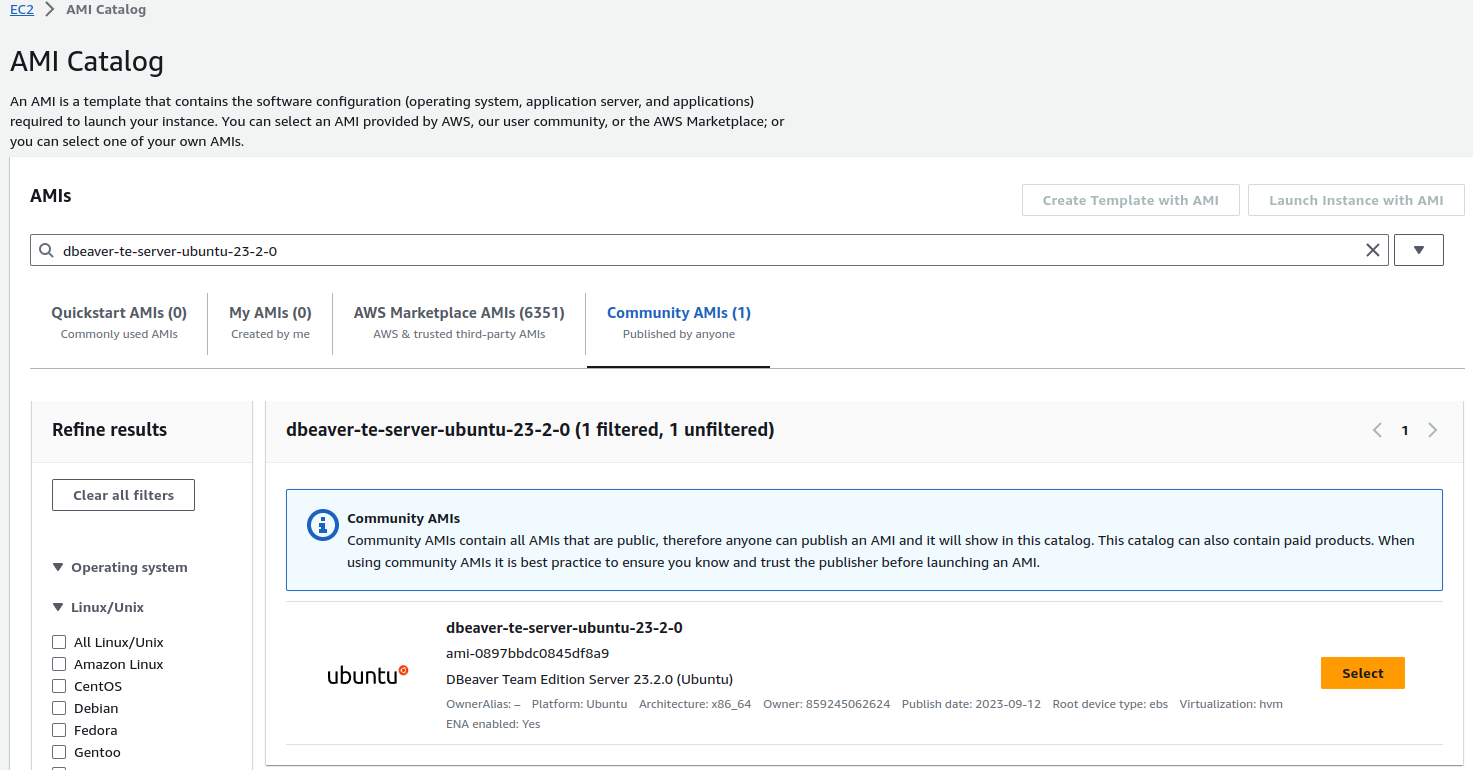
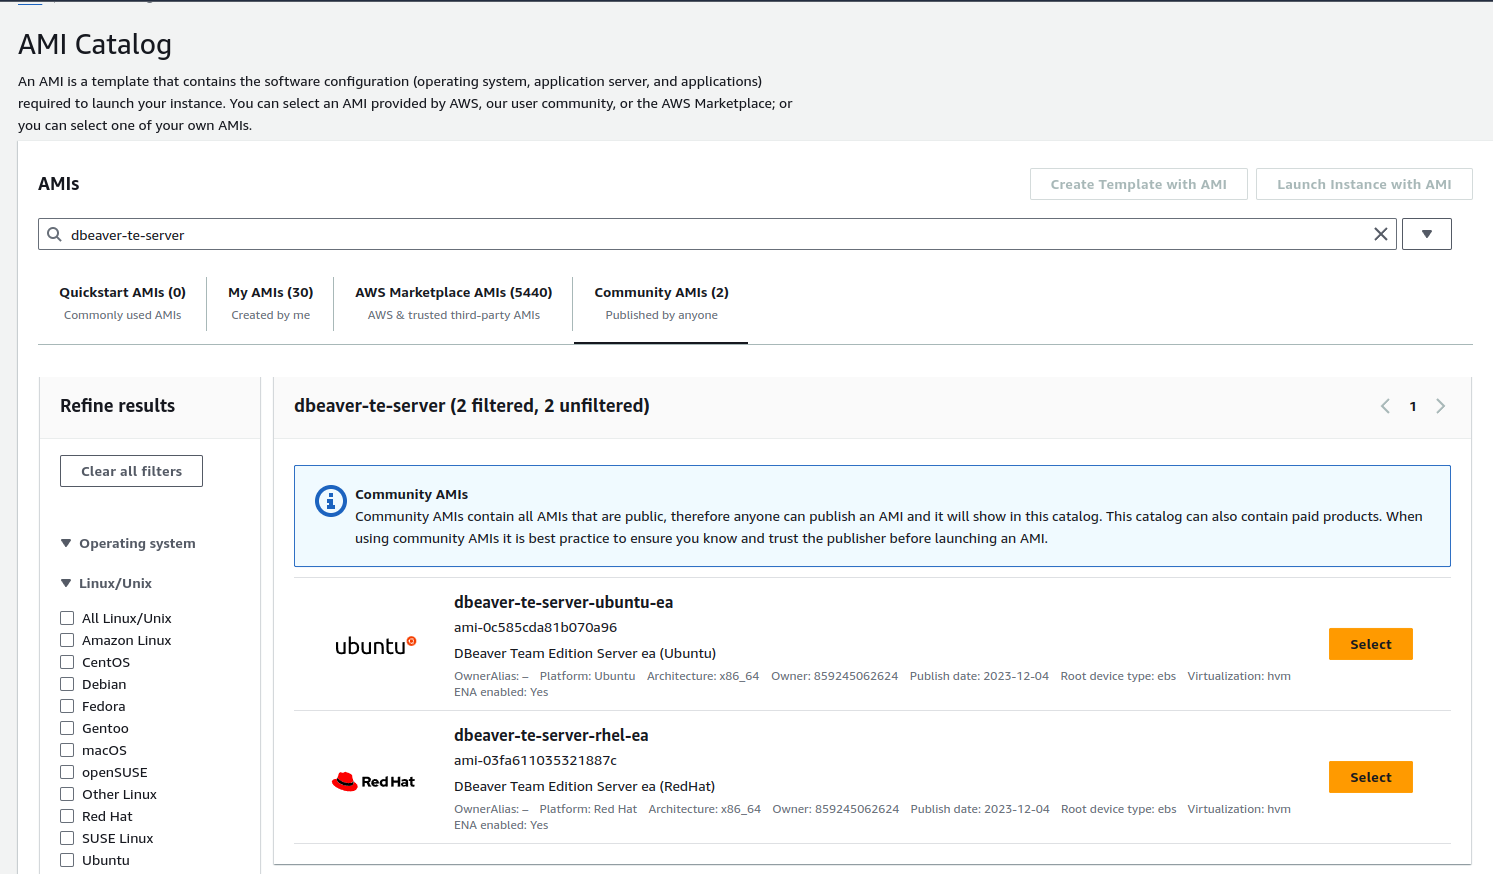
#903 Update ea to 23.3.0 version

diff --git a/GCP/README.md b/GCP/README.md
@@ -80,7 +80,7 @@ gcloud beta compute instances create dbeaver-te-server \
 --zone=us-central1-a \
 --machine-type=e2-standard-4 \
 --tags=http-server,https-server \
---image=https://www.googleapis.com/compute/v1/projects/dbeaver-public/global/images/dbeaver-te-server-ubuntu-23-2-0 \
+--image=https://www.googleapis.com/compute/v1/projects/dbeaver-public/global/images/dbeaver-te-server-ubuntu-23-3-0 \
 --create-disk=auto-delete=yes \
 --boot-disk-size=100GB --boot-disk-device-name=dbeaver-te-server
 ```
@@ -95,8 +95,8 @@ Where:
 - `boot-disk-device-name` - The name the guest operating system will see for the boot disk.
 
 DBeaver Team Edition GCP public image list:
-- `https://www.googleapis.com/compute/v1/projects/dbeaver-public/global/images/dbeaver-te-server-ubuntu-23-2-0`
-- `https://www.googleapis.com/compute/v1/projects/dbeaver-public/global/images/dbeaver-te-server-rhel-23-2-0`
+- `https://www.googleapis.com/compute/v1/projects/dbeaver-public/global/images/dbeaver-te-server-ubuntu-23-3-0`
+- `https://www.googleapis.com/compute/v1/projects/dbeaver-public/global/images/dbeaver-te-server-rhel-23-3-0`
 
 
 You can change the parameters you need for deployment yourself. For detailed information on working with Google Cloud CLI, you can read the [documentation](https://cloud.google.com/sdk/gcloud/reference/beta/compute/instances/create).

diff --git a/AWS/ami/README.md b/AWS/ami/README.md
@@ -10,14 +10,15 @@
 ### How to deploy AMI in AWS
 
 - Go to [AWS EC2](https://us-east-1.console.aws.amazon.com/ec2/home?region=us-east-1) -> AMI Catalog -> Community AMIs
-- Find `dbeaver-te-server-ubuntu-ea`
+- Find `dbeaver-te-server`
+- Choose version
 
 ![example](image.png)
 
 - Launch instance
 
 #### Note:
-- Use recommended `Minimum requirements` resources for the best experience with this product
+- Use recommended [Minimum requirements](#minimum-requirements) resources for the best experience with this product
 - For security reasons, it is not recommended to make the service public in security group configuration
 
 
@@ -25,7 +26,7 @@
 
 `dbeaver-te` is a utility to manage a Team Edition server. Using this manager, you can start or stop the server, as well as update its version.
 
-- Connect to your server through the terminal
+- Connect to your server through the terminal. Use SSH user as `ubuntu` if you use Ubuntu distributive, or `ec2-user` if RHEL distributive.
 - Enter `dbeaver-te` or `dbeaver-te help` to see help menu
 
 

diff --git a/AWS/ecs-fargate/README.md b/AWS/ecs-fargate/README.md
@@ -15,7 +15,7 @@
 
 5. Run `terraform init` and then `terraform apply` to create the necessary repositories for the services.
 
-6. Execute `./build-dbeaverte.sh` to quickly build and push Docker images to the Amazon Elastic Container Registry (ECR). You can customize the deployment version by updating the `TEVERSION` environment variable. The default version is `23.2.0`.
+6. Execute `./build-dbeaverte.sh` to quickly build and push Docker images to the Amazon Elastic Container Registry (ECR). You can customize the deployment version by updating the `TEVERSION` environment variable. The default version is `23.3.0`.
 
 7. Make a backup of the `build/cert` directory and store it in a secure location for safekeeping.
 
